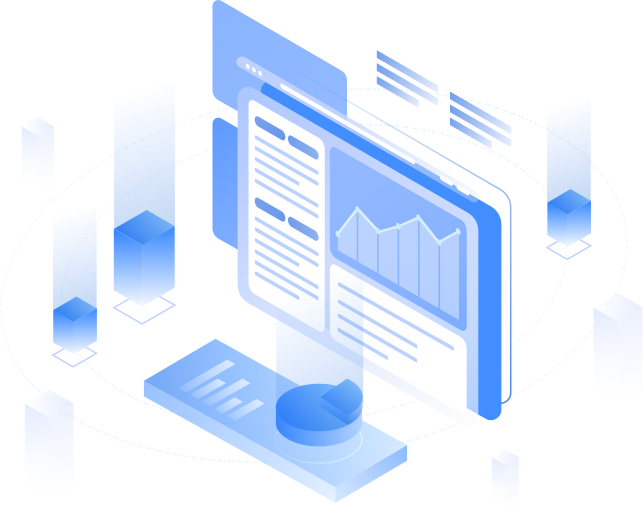
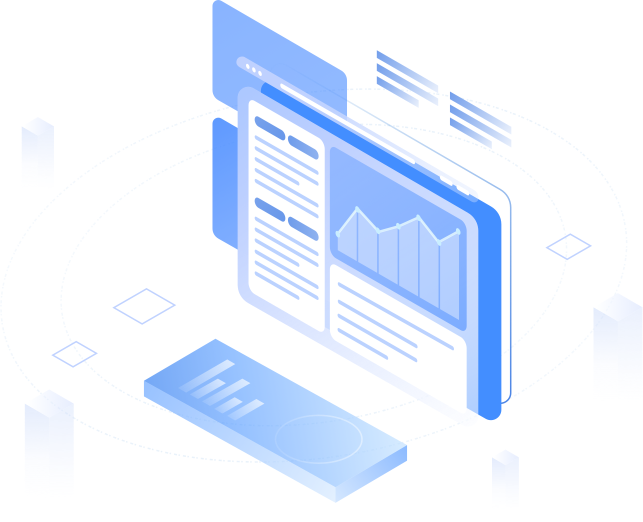
修改首页图片

Changed region(s): [[0.0622, 0.2759, 0.2799, 0.6743], [0.4044, 0.613, 0.591, 0.8582], [0.8398, 0.2759, 0.9331, 0.4904]]

diff --git a/src/views/home/index.vue b/src/views/home/index.vue
@@ -10,7 +10,8 @@ van-swipe.swipe(autoplay="5000" :show-indicators="false")
     .item(v-for="(item, index) in items" :key="index")
       img(:src="item.icon")
       .label {{item.label}}
-  img.decor(src="@/assets/images/decor-bg.png")
+  .decor
+    img(src="@/assets/images/decor-bg1.png")
 .aside
   .title 数字科技助力青年成长
   p.paragraph 东岸科技是一家国有参股的集团公司，是一家以金融数字科技为核心领域，以资产管理为应用场景，以430万用户大数据为依托的科技型企业。面向银行、AMC、持牌小贷机构等上游客户，东岸科技提供不良资产处置管理、资产评估定价、一体化数字决策处置系统等服务，用数字科技的时段，深化个贷不良行业数智化转型，重塑资产管理的新模式。同时，东岸科技为下游需要帮助的阶段性债务受压青年输出成长方案。截止目前，东岸科技通过首创勾销债务管理平台、成立调解中心、设立“青年成长阳光工程”等方式，成功帮助全国31万+年青人摆脱债务危机，并为其提供教育、就业等帮扶实现全面成长，助力他们更好地回归经济社会发展的正常轨道。
@@ -25,15 +26,12 @@ WalkLantern
 
 <script setup>
 import { ref } from 'vue'
-import Header from '@/components/Header/index.vue'
 import bushSystemIcon1 from '@/assets/images/bush-system-icon1.png'
 import bushSystemIcon2 from '@/assets/images/bush-system-icon2.png'
 import bushSystemIcon3 from '@/assets/images/bush-system-icon3.png'
 import bushSystemIcon4 from '@/assets/images/bush-system-icon4.png'
 import bushSystemIcon5 from '@/assets/images/bush-system-icon5.png'
 import WalkLantern from '@/components/WalkLantern/index.vue'
-import ContactForm from '@/components/ContactForm/index.vue'
-import Footer from '@/components/Footer/index.vue'
 
 import http from '@/utils/http'
 const fetch = async () => {
@@ -122,7 +120,16 @@ fetch()
 .decor {
   width: 643px;
   height: 522px;
+  position: relative;
+  background: url("@/assets/images/decor-bg.png") no-repeat;
+  background-size: 100% 100%;
   margin-top: 100px;
+  img {
+    width: 539px;
+    height: 362px;
+    margin: 85px 51px 75px 53px;
+    animation: move 8s linear infinite;
+  }
 }
 .aside {
   height: 602px;
@@ -180,6 +187,18 @@ fetch()
       -webkit-line-clamp: 2;
       -webkit-box-orient: vertical;
     }
+  }
+}
+@-webkit-keyframes move {
+  25% {
+    transform: translateY(-10px);
+  }
+  50%,
+  100% {
+    transform: translateY(0);
+  }
+  75% {
+    transform: translateY(10px);
   }
 }
 </style>

diff --git a/src/components/WalkLantern/index.vue b/src/components/WalkLantern/index.vue
@@ -7,7 +7,7 @@
   //    img(:src="imgGroups.group1[0]")
   //    img(:src="imgGroups.group1[1]")
   //    img(:src="imgGroups.group1[2]")
-  van-swipe.swipe(autoplay="7000" :show-indicators="false" :duration="7000" ref="swipe")
+  van-swipe.swipe(autoplay="7000" :show-indicators="false" :duration="7000" ref="swipe" :stop-propagation="false")
     van-swipe-item.marquee-item
       img(:src="imgGroups.group1[0]")
       img(:src="imgGroups.group1[1]")
@@ -20,7 +20,7 @@
       img(:src="imgGroups.group1[6]")
       img(:src="imgGroups.group1[7]")
       img(:src="imgGroups.group1[4]")
-  van-swipe.swipe(autoplay="5000" :show-indicators="false" :duration="5000" ref="swipe1")
+  van-swipe.swipe(autoplay="5000" :show-indicators="false" :duration="5000" ref="swipe1" :stop-propagation="false")
     van-swipe-item.marquee-item
       img(:src="imgGroups.group2[0]")
       img(:src="imgGroups.group2[1]")
@@ -33,7 +33,7 @@
       img(:src="imgGroups.group2[6]")
       img(:src="imgGroups.group2[7]")
       img(:src="imgGroups.group2[4]")
-  van-swipe.swipe(autoplay="7000" :show-indicators="false" :duration="7000" ref="swipe2")
+  van-swipe.swipe(autoplay="7000" :show-indicators="false" :duration="7000" ref="swipe2" :stop-propagation="false")
     van-swipe-item.marquee-item
       img(:src="imgGroups.group3[0]")
       img(:src="imgGroups.group3[1]")
